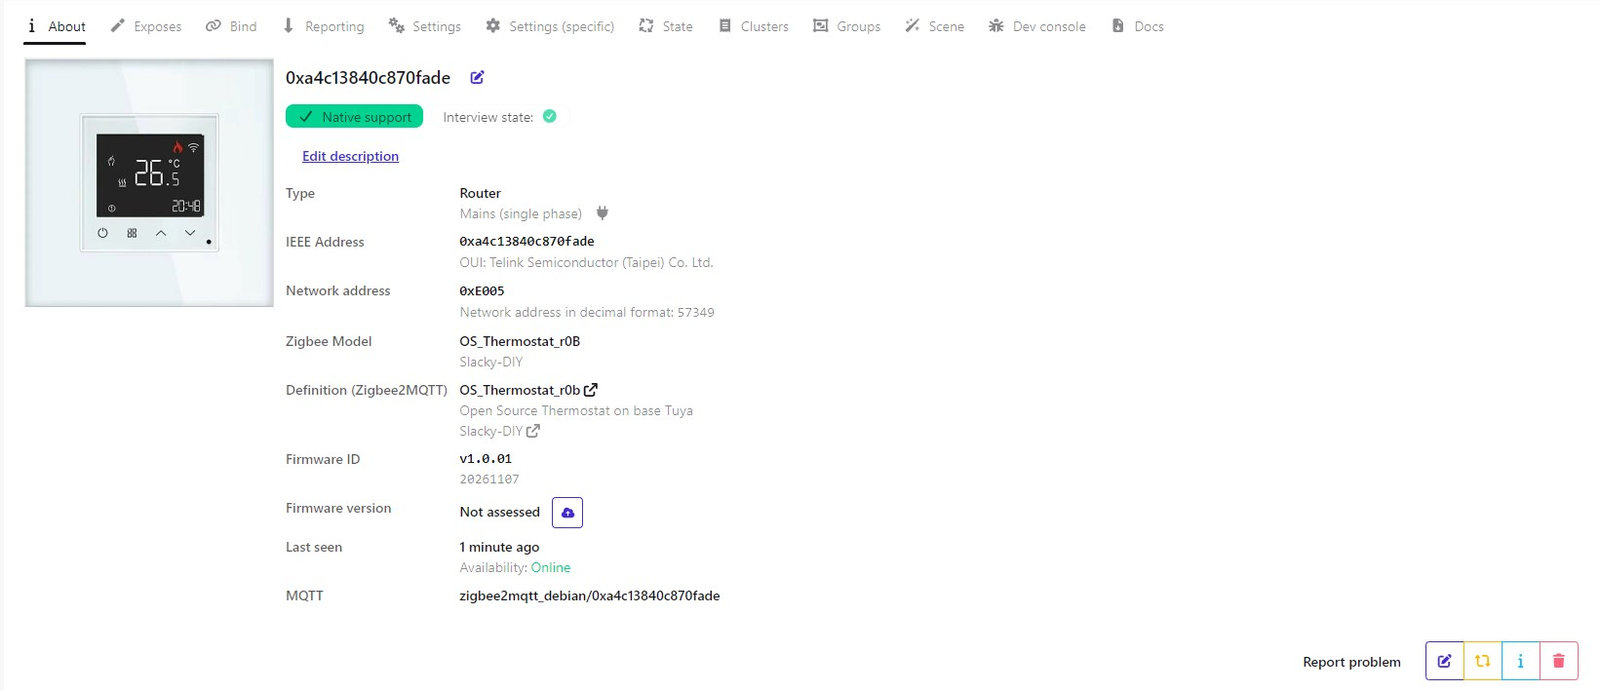
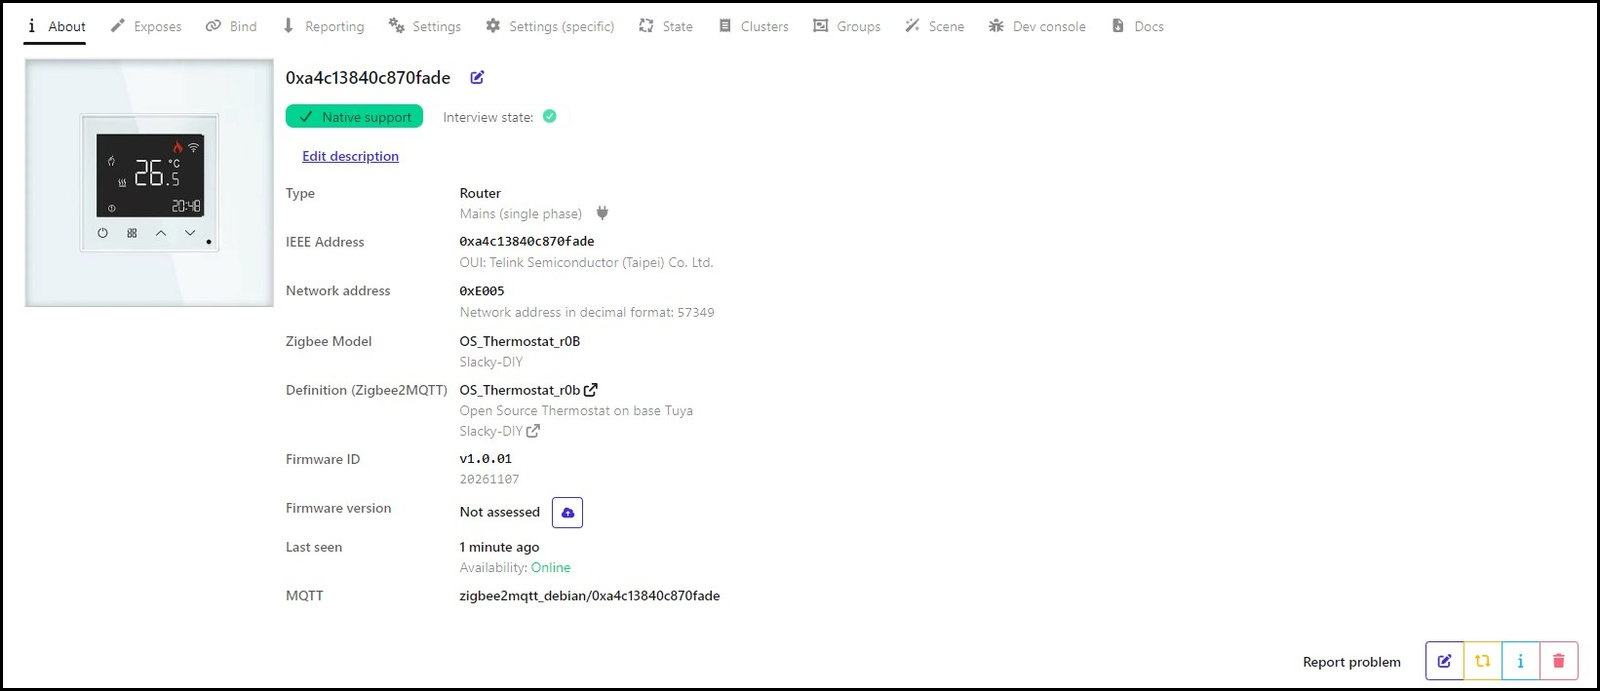
update readme

Changed region(s): [[0.0, 0.9725, 1.0, 1.0], [0.0, 0.0, 1.0, 0.0304]]

diff --git a/README.md b/README.md
@@ -12,7 +12,7 @@
 ## Руководство пользователя Zigbee OS Thermostat.
 
 Термостат состоит из двух микроконтроллеров: основного **CA51F253L2**, который непосредственно управляет экраном, 
-клавишами и реле нагрева, и Zigbee-модуля **ZT3L** (**Telink TLSR8258**), который общается с сетью.
+клавишами и реле нагрева, и Zigbee-модуля **ZTU** (**Telink TLSR8258**), который общается с сетью.
 
 Возможности:
 
@@ -23,7 +23,7 @@
 - меню настроек из 10 пунктов, калибровка датчиков, лимиты заданной температуры;
 - установка часов, синхронизация из сети;
 - блокировка клавиш, индикация состояния, дневная/ночная яркость;
-- обновление прошивок обоих MCU (**CA51F253L2** и **ZT3L**) по воздуху (через Zigbee-хаб).
+- обновление прошивок обоих MCU (**CA51F253L2** и **ZTU**) по воздуху (через Zigbee-хаб).
 
 ---
 
@@ -345,17 +345,17 @@
 
 Обновление запускается из Zigbee-хаба и занимает некоторое время:
 
-Файлов обновлений четыре: три варианта для **Zigbee** модуля **ZT3L** и один
+Файлов обновлений четыре: три варианта для **Zigbee** модуля **ZTU** и один
 для **CA51F253L2**. 
 Все обновления заливаются через **Zigbee**, в данном случаем через **zigbee2mqtt**.
-Отличить образ можно по вхождению в имя **ZT3L** или **CA51F253L2**.
+Отличить образ можно по вхождению в имя **ZTU** или **CA51F253L2**.
 
-При обновлении **ZT3L** на экране ничего не отображается.
+При обновлении **ZTU** на экране ничего не отображается.
 
-Обновление **CA51F253L2** происходит в два этапа. Сначала обновление грузится в **ZT3L**.
-После полной загрузки файла обновления, **ZT3L** загружает этот файл в **CA51F253L2**.
-Пока файл грузится в **ZT3L** тоже ничего не отображается. Когда процесс заливки файла 
-закончится и **ZT3L** начнет передачу файла в **CA51F253L2**, то 
+Обновление **CA51F253L2** происходит в два этапа. Сначала обновление грузится в **ZTU**.
+После полной загрузки файла обновления, **ZTU** загружает этот файл в **CA51F253L2**.
+Пока файл грузится в **ZTU** тоже ничего не отображается. Когда процесс заливки файла 
+закончится и **ZTU** начнет передачу файла в **CA51F253L2**, то 
 
 1. на больших цифрах появляется **`UP`** (дисплей и подсветка на максимуме),
    нагрев на это время выключен;
@@ -376,11 +376,11 @@
 
 | Имя файла | Назначение |
 |-----------|------------|
-| 1141-d3a3-1111114b-osrctherm_r0b_zrd_ZT3L.zigbee| Обновление ZT3L из оригинального в кастомный |
-| 6565-0391-65653001-old_tuya_thermostat_r0b_ZT3L.zigbee | Обновление ZT3L, если его уже перешили в термостат из [предыдущего проекта](https://github.com/slacky1965/tuya_thermostat_zrd) |
-| 6565-03b4-10013001-osrctherm_r0b_zrd_ZT3L.zigbee | Обновление ZT3L уже перешитого термостата из этого проекта |
+| 1141-d3a3-1111114b-osrctherm_r0b_zrd_ZT3L.zigbee| Обновление ZTU из оригинального в кастомный |
+| 6565-0391-65653001-old_tuya_thermostat_r0b_ZT3L.zigbee | Обновление ZTU, если его уже перешили в термостат из [предыдущего проекта](https://github.com/slacky1965/tuya_thermostat_zrd) |
+| 6565-03b4-10013001-osrctherm_r0b_zrd_ZT3L.zigbee | Обновление ZTU уже перешитого термостата из этого проекта |
 | 6565-03b4-65653001-osrctherm_r0b_v1.01_CA51F253L2.zigbee | Обновление CA51F253L2 уже перешитого термостата из этого проекта |
 
-## 11. [Протокол обмена между ZT3L и CA51F253L2](doc/serial.md)
+## 11. [Протокол обмена между ZTU и CA51F253L2](doc/serial.md)
 
 

diff --git a/doc/getting_started.md b/doc/getting_started.md
@@ -14,7 +14,7 @@
 - [1. Железо](#1-железо)
 - [2. Сборка проекта](#2-сборка-проекта)
 - [3. Как обновить](#3-как-обновить)
-  - [Этап 1. OTA-обновление ZT3L](#этап-1-ota-обновление-zt3l)
+  - [Этап 1. OTA-обновление ZTU](#этап-1-ota-обновление-zt3l)
   - [Этап 2. Прошивка CA51F253L2](#этап-2-прошивка-ca51f253l2)
 
 ---
@@ -72,9 +72,9 @@ $ make bootloader clean all
 
 Сразу скажу, обновить **CA51F253L2** по ОТА из оригинальной прошивки в кастомную нельзя. В протоколе Tuya есть такой механизм, но проектировщики этого термостата не реализовали такую возможность. Но с другой стороны, для перепрошивки **CA51F253L2** не нужен какой-то отдельный программатор. Достаточно обычного **USB-UART** адаптера.
 
-Итак. Обновление будет происходить в два этапа. Сначала по **ОТА** обновляем zigbee-модуль ZT3L. А затем мы уже прошьем проводами **CA51F253L2**.
+Итак. Обновление будет происходить в два этапа. Сначала по **ОТА** обновляем zigbee-модуль ZTU. А затем мы уже прошьем проводами **CA51F253L2**.
 
-### Этап 1. OTA-обновление ZT3L
+### Этап 1. OTA-обновление ZTU
 
 #### Шаг 1. Добавление оригинального термостата в z2m
 
